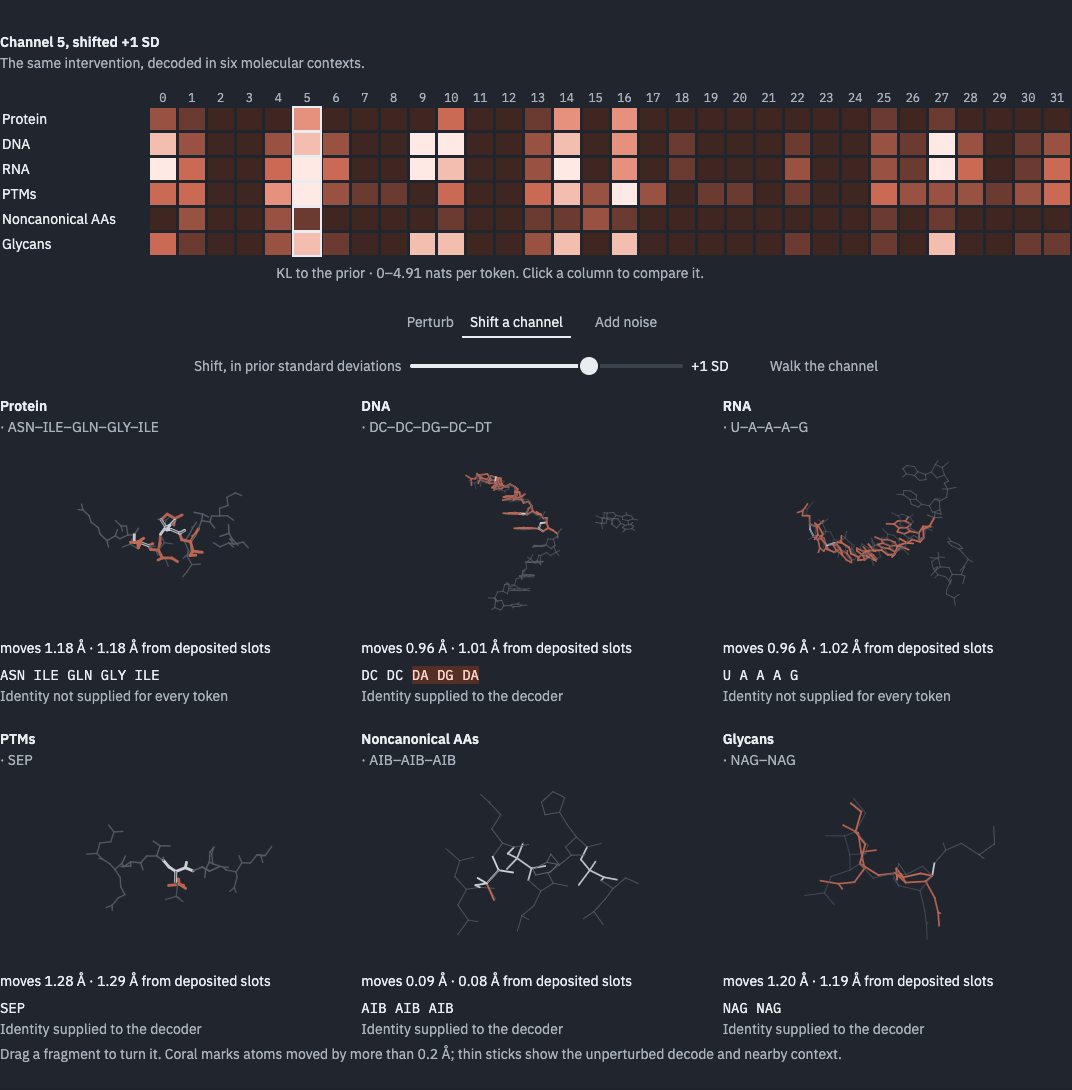
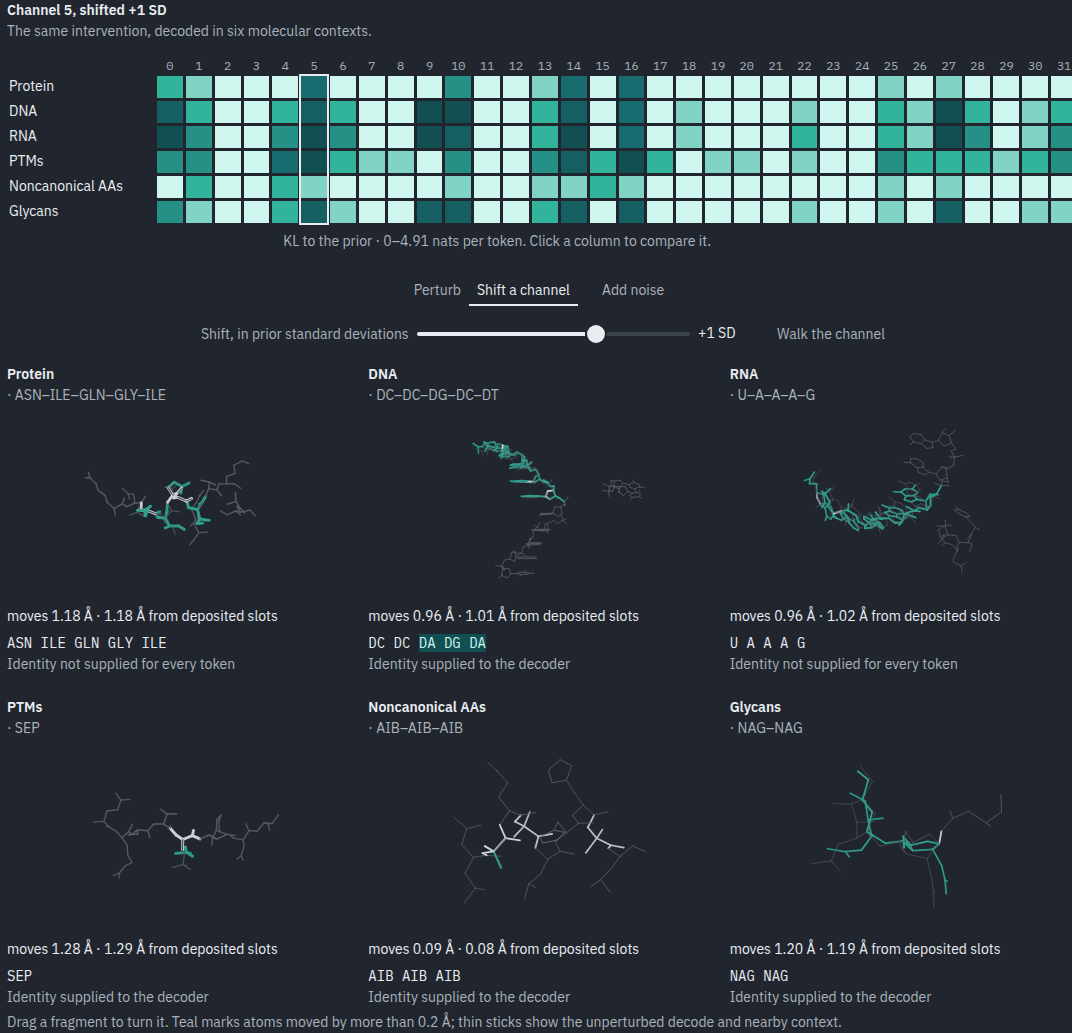
Match latent explorer to manuscript palette and frame selected columns (#24)

diff --git a/docs/_static/viz/js/latents-expanded.js b/docs/_static/viz/js/latents-expanded.js
@@ -4,10 +4,13 @@ import { definePage } from './lib/page.js';
 import { controlRow, el, range, toggle, button } from './lib/controls.js';
 import { informationPlots, identityPlot } from './latents-expanded-charts.js';
 import { moleculeView } from './latents-molecule.js';
+import { rampTable } from './lib/palette.js';
 
 const GROUPS = ['aa', 'dna', 'rna', 'ptm', 'ncaa', 'glycan'];
 const NAMES = { aa: 'Protein', dna: 'DNA', rna: 'RNA', ptm: 'PTMs', ncaa: 'Noncanonical AAs', glycan: 'Glycans' };
 const fmt = (n) => n.toFixed(2);
+// Manuscript style/figure_theme.json: sequential palette used in Figures 4 and 5.
+const HEATMAP_COLORS = rampTable(['#CFF6EF', '#32B39B', '#186C70', '#124F52'], { n: 7 });
 
 function fragment(example, group) {
   const rest = example.rest.xyz.flat();
@@ -46,7 +49,8 @@ export default definePage({
         const b = el('button', { type: 'button', class: 'expanded-cell',
           'aria-label': `${NAMES[group]}, channel ${channel}, ${fmt(value)} nats`, 'aria-pressed': 'false',
           title: `${NAMES[group]} · channel ${channel} · ${fmt(value)} nats` });
-        b.style.background = `var(--viz-lat-${Math.min(6, Math.round(value / top * 6))})`;
+        const color = 4 * Math.min(6, Math.round(value / top * 6));
+        b.style.background = `rgb(${HEATMAP_COLORS.subarray(color, color + 3).join(',')})`;
         b.addEventListener('click', () => { state.channel = channel; update(); });
         rows.push({ b, channel }); heat.append(b);
       });
@@ -102,6 +106,7 @@ export default definePage({
       return state.sigma === 0 ? ex.rest : ex.noise[state.all ? 32 : state.channel][state.draw][walks.sigmas.indexOf(state.sigma)];
     }
     function update() {
+      heat.style.setProperty('--expanded-selected-column', String(state.channel + 2));
       for (const { b, channel } of rows) b.setAttribute('aria-pressed', String(channel === state.channel));
       for (const g of GROUPS) {
         const frame = current(g), example = walks.examples[g];
@@ -114,7 +119,7 @@ export default definePage({
       title.textContent = state.mode === 'shift' ? `Channel ${state.channel}, shifted ${state.shift > 0 ? '+' : ''}${state.shift} SD`
         : `Noise of ${state.sigma} SD on ${state.all ? 'all 32 channels' : `channel ${state.channel}`}`;
       claim.textContent = 'The same intervention, decoded in six molecular contexts.';
-      description.textContent = 'Drag a fragment to turn it. Coral marks atoms moved by more than 0.2 Å; thin sticks show the unperturbed decode and nearby context.';
+      description.textContent = 'Drag a fragment to turn it. Teal marks atoms moved by more than 0.2 Å; thin sticks show the unperturbed decode and nearby context.';
       if (stats) stats.replaceChildren(...GROUPS.map((g) => {
         const s = walks.groups[g], c = state.channel;
         return el('tr', {}, el('th', { scope: 'row' }, NAMES[g]), el('td', {}, fmt(s.kl_nats[c])),

diff --git a/docs/_static/viz/css/expanded.css b/docs/_static/viz/css/expanded.css
@@ -1,10 +1,31 @@
 /* Six molecular contexts in the reference latent instrument's visual language. */
+/* Manuscript sequential palette, scoped to this page's instrument and supporting plots. */
+[data-viz-page="expanded"], .expanded-information {
+  --viz-lat: #186c70;
+  --viz-lat-ink: #124f52;
+  --viz-lat-soft: #cff6ef;
+}
+html[data-theme="dark"] :is([data-viz-page="expanded"], .expanded-information) {
+  --viz-lat: #32b39b;
+  --viz-lat-ink: #cff6ef;
+  --viz-lat-soft: #124f52;
+}
 .expanded-grid-scroll { overflow-x: auto; padding: 4px 2px; }
-.expanded-grid { display: grid; grid-template-columns: 145px repeat(32, minmax(13px, 1fr)); gap: 3px; min-width: 710px; align-items: center; }
+.expanded-grid { position: relative; display: grid; grid-template-columns: 145px repeat(32, minmax(13px, 1fr)); gap: 3px; min-width: 710px; align-items: center; }
+/* One frame around the six cells; an absolute grid item preserves their gaps and fills. */
+.expanded-grid::after {
+  content: "";
+  position: absolute;
+  grid-column: var(--expanded-selected-column, 7) / span 1;
+  grid-row: 2 / 8;
+  inset: -2px;
+  border: 2px solid var(--wf-ink);
+  pointer-events: none;
+}
 .expanded-column { text-align: center; font: 12px var(--arch-mono); color: var(--wf-ink-soft); }
 .expanded-row-name { font-size: var(--arch-fs-small); }
 .expanded-cell { width: 100%; height: 22px; border: 0; border-radius: 0; padding: 0; cursor: pointer; }
-.expanded-cell[aria-pressed="true"] { outline: 2px solid var(--wf-ink); outline-offset: 0; }
+.viz-page .bd-main .expanded-cell:focus:not(:focus-visible) { outline: none; box-shadow: none; }
 .expanded-cell:focus-visible { outline: 2px solid var(--wf-focus); }
 .expanded-key { text-align: right; margin: 4px 0 14px; }
 [data-viz-page="expanded"] [hidden] { display: none !important; }

diff --git a/docs/_static/viz/js/latents-expanded-charts.js b/docs/_static/viz/js/latents-expanded-charts.js
@@ -92,7 +92,7 @@ export function informationPlots(host, groups, examples, names, order, sigmas, o
     description.textContent = mode === 'budget'
       ? 'Curves accumulate KL from the largest-rate channels. The dashed diagonal is equal allocation; the dot locates the picked channel. Higher rate is not necessarily more usable information.'
       : mode === 'noise' ? 'Thin lines are three seeded draws; the thick line is their arithmetic mean, not a confidence interval. Each dot is a decoder evaluation; connecting lines guide the eye. Fixed anchors, identities and deposited slots. This is a noise-response curve, not a rate–distortion frontier or a molecular-validity score.'
-      : 'Same axes in every panel. Click a dot to pick its channel above. Coral means Var(μ) > 0.01. Ablation zeros that channel across one input’s matching tokens; sensitivity is not a chemical-validity score.';
+      : 'Same axes in every panel. Click a dot to pick its channel above. Teal means Var(μ) > 0.01. Ablation zeros that channel across one input’s matching tokens; sensitivity is not a chemical-validity score.';
   }
   draw();
   return { set(c) { channel = c; draw(); } };

diff --git a/docs/architecture/expanded-chemistry.md b/docs/architecture/expanded-chemistry.md
@@ -9,8 +9,8 @@ orphan: true
 <p class="viz-dek">Move one latent channel. Watch a protein, DNA, RNA, a phosphorylated residue, a noncanonical amino acid and a glycan respond together.</p>
 <p>Pick a column, shift it, walk along it, or add noise. All six views show actual decodes from the release autoencoder, with anchors and native identity conditions fixed.</p>
 <div class="viz-stage viz-stage-wide arch-band" data-viz-page="expanded" aria-label="Six simultaneous molecular views: protein, DNA, RNA, phosphorylation, noncanonical amino acids and glycans">
-<img class="viz-poster only-light" src="../_static/viz/expanded-data/expanded-light.png" width="1072" height="1090" alt="Six decoded molecular contexts in two rows of three, with shared channel and noise controls." loading="lazy" decoding="async">
-<img class="viz-poster only-dark" src="../_static/viz/expanded-data/expanded-dark.png" width="1072" height="1090" alt="Six decoded molecular contexts in two rows of three, with shared channel and noise controls." loading="lazy" decoding="async">
+<img class="viz-poster only-light" src="../_static/viz/expanded-data/expanded-light.png" width="1072" height="1033" alt="Six decoded molecular contexts in two rows of three, with shared channel and noise controls." loading="lazy" decoding="async">
+<img class="viz-poster only-dark" src="../_static/viz/expanded-data/expanded-dark.png" width="1072" height="1033" alt="Six decoded molecular contexts in two rows of three, with shared channel and noise controls." loading="lazy" decoding="async">
 </div>
 <script type="module" src="../_static/viz/js/latents-expanded.js"></script>
 <p class="viz-caption">Top: protein, DNA, RNA. Bottom: phosphorylation (phosphoserine, SEP), noncanonical amino acids (AIB), glycans. Up to five nearby tokens per view; the full input remains decoder context. Sticks follow deposited atom slots, not validated new chemical topology.</p>
